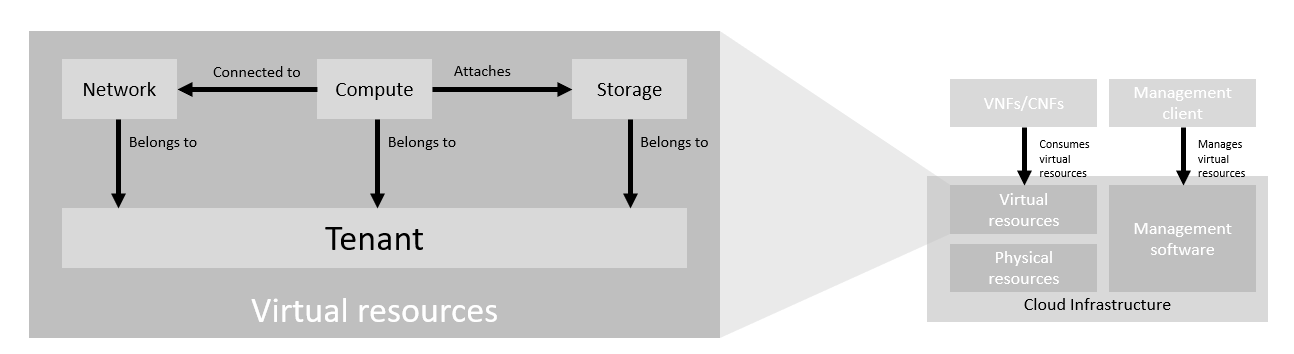
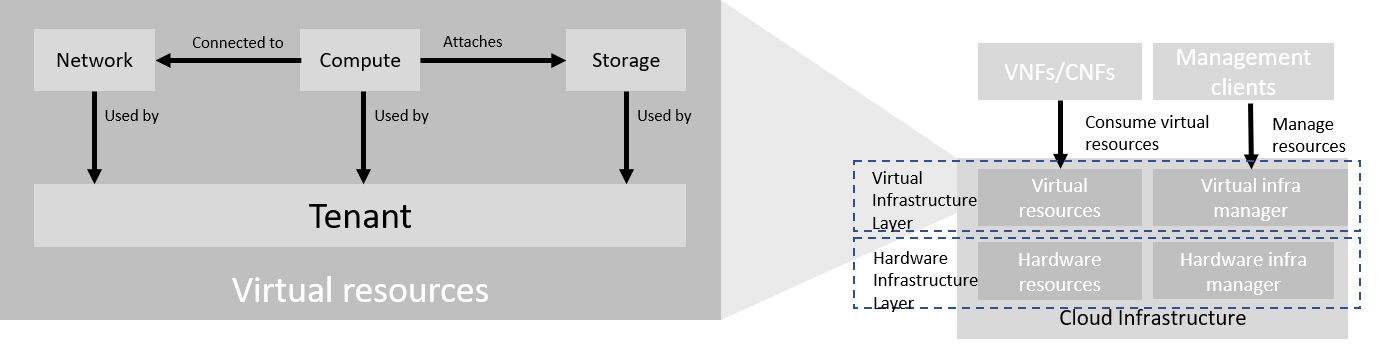
[RM Ch03.2] updates (#1787)
* Coorections/updates to 3.2

several minor corrections  to Sec 3.2 Virtual Resources

* Add files via upload

Updated diagram added, changed "belong to" into "used by"

* disc -> disk

Typo fixed addressing Issue #1464

* Add files via upload

Fig 3-2 Virtual Resources source file added

diff --git a/doc/ref_model/chapters/chapter03.md b/doc/ref_model/chapters/chapter03.md
@@ -46,7 +46,7 @@ The functionalities of each layer are as follows:
 The virtual infrastructure resources provided by the Cloud Infrastructure can be grouped into four categories as shown in the diagram below:
 
 <p align="center"><img src="../figures/ch03-model-virtual-resources.png" alt="NFVI Virtual Infrastructure Resources" Title="NFVI Virtual Infrastructure Resources" width="65%"/></p>
-<p align="center"><b>Figure 3-2:</b> Virtual Infrastructure Resources provides virtual compute, storage and networks in a tenant context.</p>
+<p align="center"><b>Figure 3-2:</b> Virtual Infrastructure Resources provide virtual compute, storage and networks in a tenant context.</p>
 
 - **Tenants:** represent an isolated and independently manageable elastic pool of compute, storage and network resources
 - **Compute resources:** represent virtualised computes for workloads and other systems as necessary
@@ -58,7 +58,7 @@ The virtualised infrastructure resources related to these categories are listed 
 <a name="3.2.1"></a>
 ### 3.2.1 Tenant
 
-A network function virtualisation infrastructure (NFVI) needs to be capable of supporting multiple tenants and has to isolate sets of infrastructure resources dedicated to specific workloads (VNF/CNF) from one another. Tenants represent an independently manageable logical pool of compute, storage and network resources abstracted from physical hardware.
+A cloud infrastructure needs to be capable of supporting multiple tenants and has to isolate sets of infrastructure resources dedicated to specific workloads (VNF/CNF) from one another. Tenants represent an independently manageable logical pool of compute, storage and network resources abstracted from physical hardware.
 
 _**Example**: a tenant within an OpenStack environment or a Kubernetes cluster._
 
@@ -76,7 +76,7 @@ _**Example**: a tenant within an OpenStack environment or a Kubernetes cluster._
 
 <a name="3.2.2"></a>
 ### 3.2.2 Compute
-A virtual machine or a container/pod belonging to a tenant capable of hosting the application components of workloads (VNFs). A virtual compute therefore requires a tenant context and since it will need to communicate with other communication partners it is assumed that the networks have been provisioned in advance.
+A virtual machine or a container/pod is used by a tenant capable of hosting the application components of workloads (VNFs). A virtual compute therefore requires a tenant context and, since it will need to communicate with other communication partners, it is assumed that the networks have been provisioned in advance.
 
 _**Example**: a virtual compute descriptor as defined in TOSCA Simple Profile for NFV._
 
@@ -85,7 +85,7 @@ _**Example**: a virtual compute descriptor as defined in TOSCA Simple Profile fo
 | `name`         | name of the virtual host                                                      |
 | `vcpus`        | number of virtual cpus                                                        |
 | `ram`          | size of random access memory in GB                                            |
-| `disc`         | size of root disc in GB                                                       |
+| `disk`         | size of root disc in GB                                                       |
 | `nics`         | sorted list of network interfaces connecting the host to the virtual networks |
 | `acceleration` | key/value pairs for selection of the appropriate acceleration technology      |
 | `metadata`     | key/value pairs for selection of the appropriate redundancy domain            |
@@ -108,12 +108,10 @@ _**Example**: an OpenStack cinder volume._
 
 <p align="center"><b>Table 3-3:</b> Attributes of storage resources</p>
 
-_**Comments**: we need to be more specific regarding acceleration and metadata._
-
 
 <a name="3.2.4"></a>
 ### 3.2.4 Availability Zone
-An Availability Zone is a logical pool of physical resources (e.g. compute, block storage, network).  These logical pools segment the physical resources of a cloud based on factors chosen by the cloud operator. The cloud operator may create availability zones based on location (rack, datacenter), or indirect failure domain dependencies like power sources.  Workloads can leverage availability zones to utilise multiple locations or avoid sharing failure domains for a workload, and thus increase its fault-tolerance.
+An availability zone is a logical pool of physical resources (e.g. compute, block storage, network).  These logical pools segment the physical resources of a cloud based on factors chosen by the cloud operator. The cloud operator may create availability zones based on location (rack, datacenter), or indirect failure domain dependencies like power sources.  Workloads can leverage availability zones to utilise multiple locations or avoid sharing failure domains for a workload, and thus increase its fault-tolerance.
 
 As a logical group with operator-specified criteria, the only mandatory attribute for an Availability Zone is the name.
 
